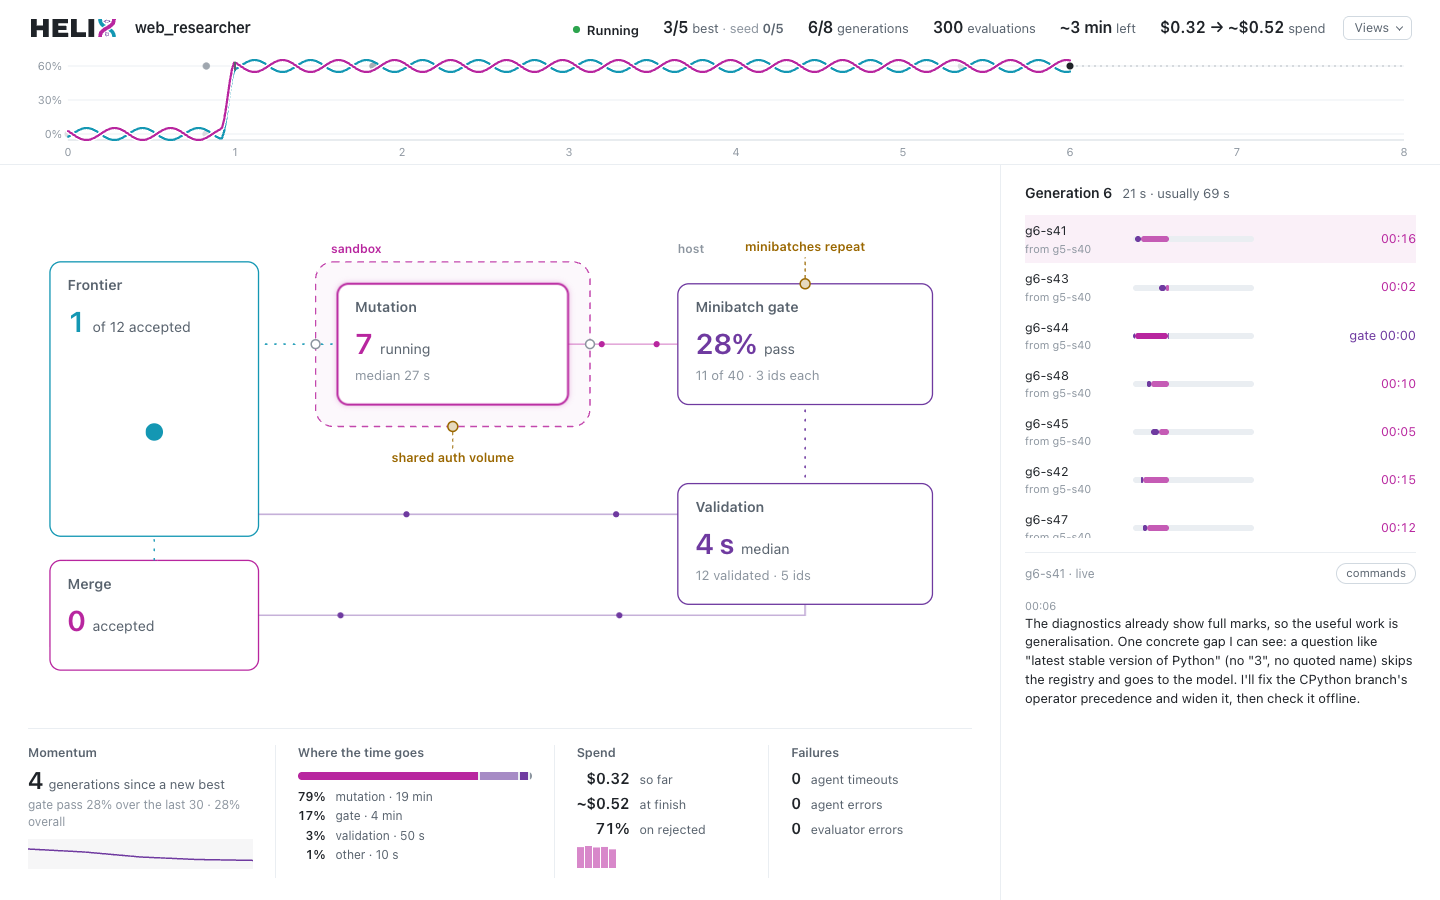
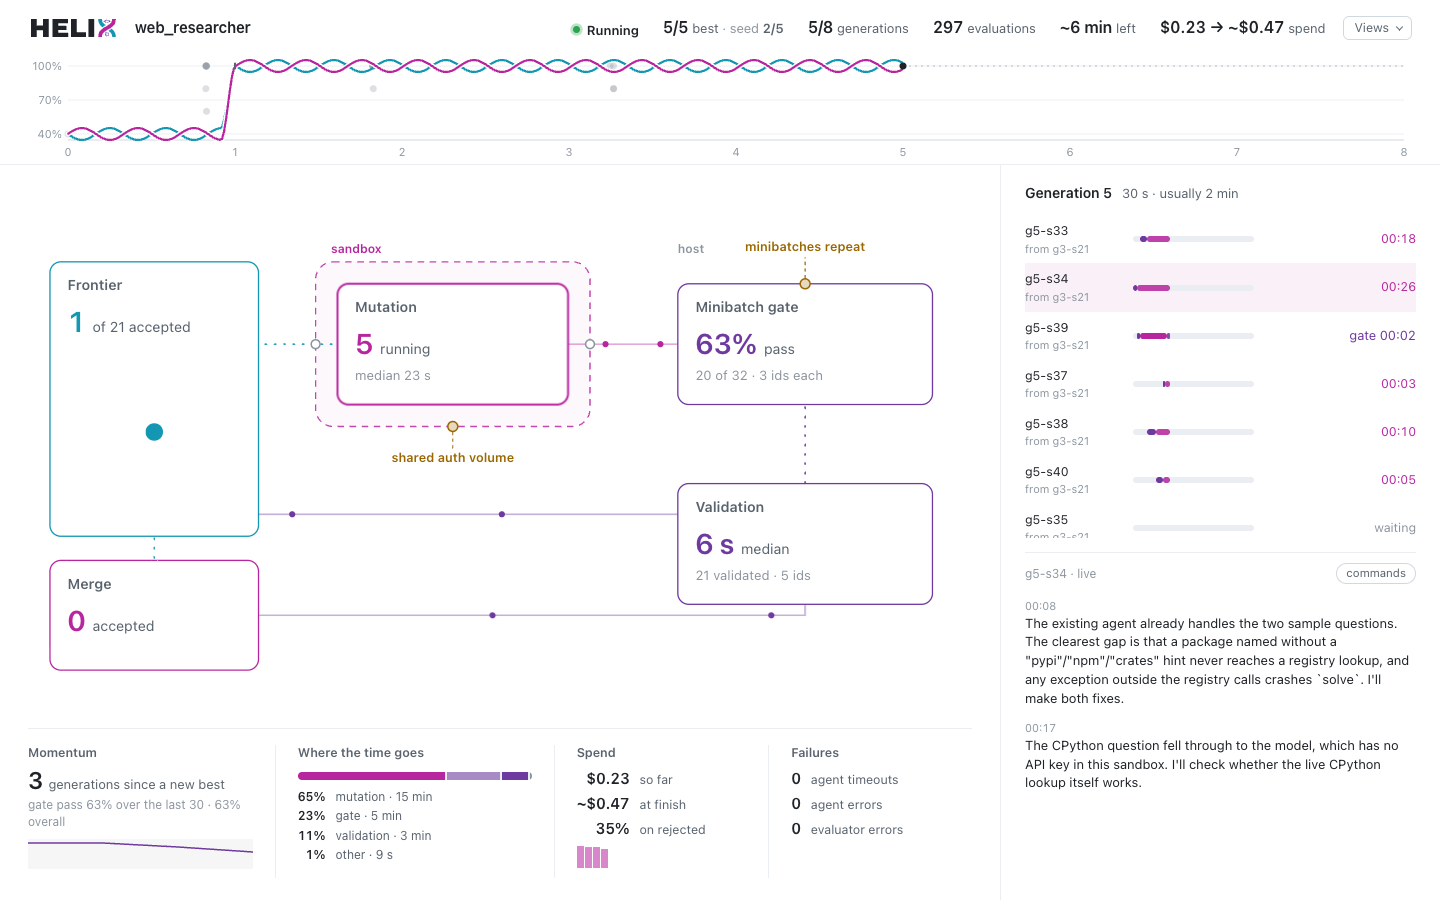
helix ui: a proposal selected before its agent starts is not "removed"
Each proposal re-scores its parent before its agent span opens. A lane
selected in that window had no open span and no worktree yet, so the
transcript read "worktree removed, and its transcript with it", and the page
stopped polling, so it stayed that way once the agent started. It now reads
"agent not started yet", and the page keeps polling a "none" transcript while
the run is going.

The guide's screenshots now come from a run whose seed scores 2/5 and whose
first generation reaches 5/5.

diff --git a/src/helix/ui/static/app.js b/src/helix/ui/static/app.js
@@ -660,7 +660,8 @@
       const key = `${t.source}|${t.note}|${t.seen}`;
       if (key !== t.shown) { t.shown = key; renderTx(); }
     }
-    if (!d || d.source === 'live') t.timer = setTimeout(() => fetchTx(t), 4000);
+    // "none" can change while the run goes on: a proposal selected before its agent starts
+    if (!d || d.source === 'live' || (d.source === 'none' && running())) t.timer = setTimeout(() => fetchTx(t), 4000);
   }
   function renderTx() {
     const t = S.tx, box = $('tx');

diff --git a/src/helix/ui/transcripts.py b/src/helix/ui/transcripts.py
@@ -83,7 +83,7 @@ class TranscriptReader:
         records = self._reader.timing_records()
         span = _open_agent_span(records, cid)
         if span is None:
-            return self._finished(cid, cursor)
+            return self._finished(cid, cursor, records)
         if self._config.sandbox.enabled:
             return self._live_sandboxed(cid, cursor, span, records)
         return self._live_host(cid, cursor, span)
@@ -111,10 +111,18 @@ class TranscriptReader:
 
     # -- finished ---------------------------------------------------------
 
-    def _finished(self, cid: str, cursor: int) -> dict[str, Any]:
+    def _finished(self, cid: str, cursor: int, records: list[dict[str, Any]]) -> dict[str, Any]:
         worktree = self._worktree(cid)
         if not worktree.is_dir():
-            return self._reply("none", cursor, note="worktree removed, and its transcript with it")
+            # A proposal waiting for its slot has no worktree yet; one whose
+            # agent ran and lost it was rejected.  A run without timing
+            # records cannot tell, and only finished runs lack them.
+            started = not records or any(
+                rec.get("event") == "start" and rec.get("span") == "agent" and rec.get("candidate") == cid
+                for rec in records
+            )
+            note = "worktree removed, and its transcript with it" if started else "agent not started yet"
+            return self._reply("none", cursor, note=note)
         path = _finished_transcript(worktree, self._config.sandbox.transcript_artifact_dir, self._backend)
         if path is None:
             return self._reply("none", cursor, note="no transcript recorded")

diff --git a/tests/unit/test_ui_transcripts.py b/tests/unit/test_ui_transcripts.py
@@ -226,6 +226,15 @@ def test_missing_worktree_and_bad_ids(tmp_path: Path) -> None:
     assert other.read("g1-s1")["note"] == "cursor transcripts are not shown"
 
 
+def test_a_proposal_whose_agent_has_not_started_is_not_called_removed(tmp_path: Path) -> None:
+    # g1-s2 waits for a slot while g1-s1's agent ran and its worktree is gone.
+    started = _start("agent", "a1", 100.0, "g1-s1")
+    records = [started, _end(started)]
+    reader = TranscriptReader(tmp_path, _config(), FakeReader(records))
+    assert reader.read("g1-s2")["note"] == "agent not started yet"
+    assert reader.read("g1-s1")["note"] == "worktree removed, and its transcript with it"
+
+
 def test_first_read_of_a_large_file_starts_near_the_end(tmp_path: Path, monkeypatch: pytest.MonkeyPatch) -> None:
     monkeypatch.setattr(tmod, "_MAX_READ", 300)
     wt = _worktree(tmp_path, "g1-s1")
